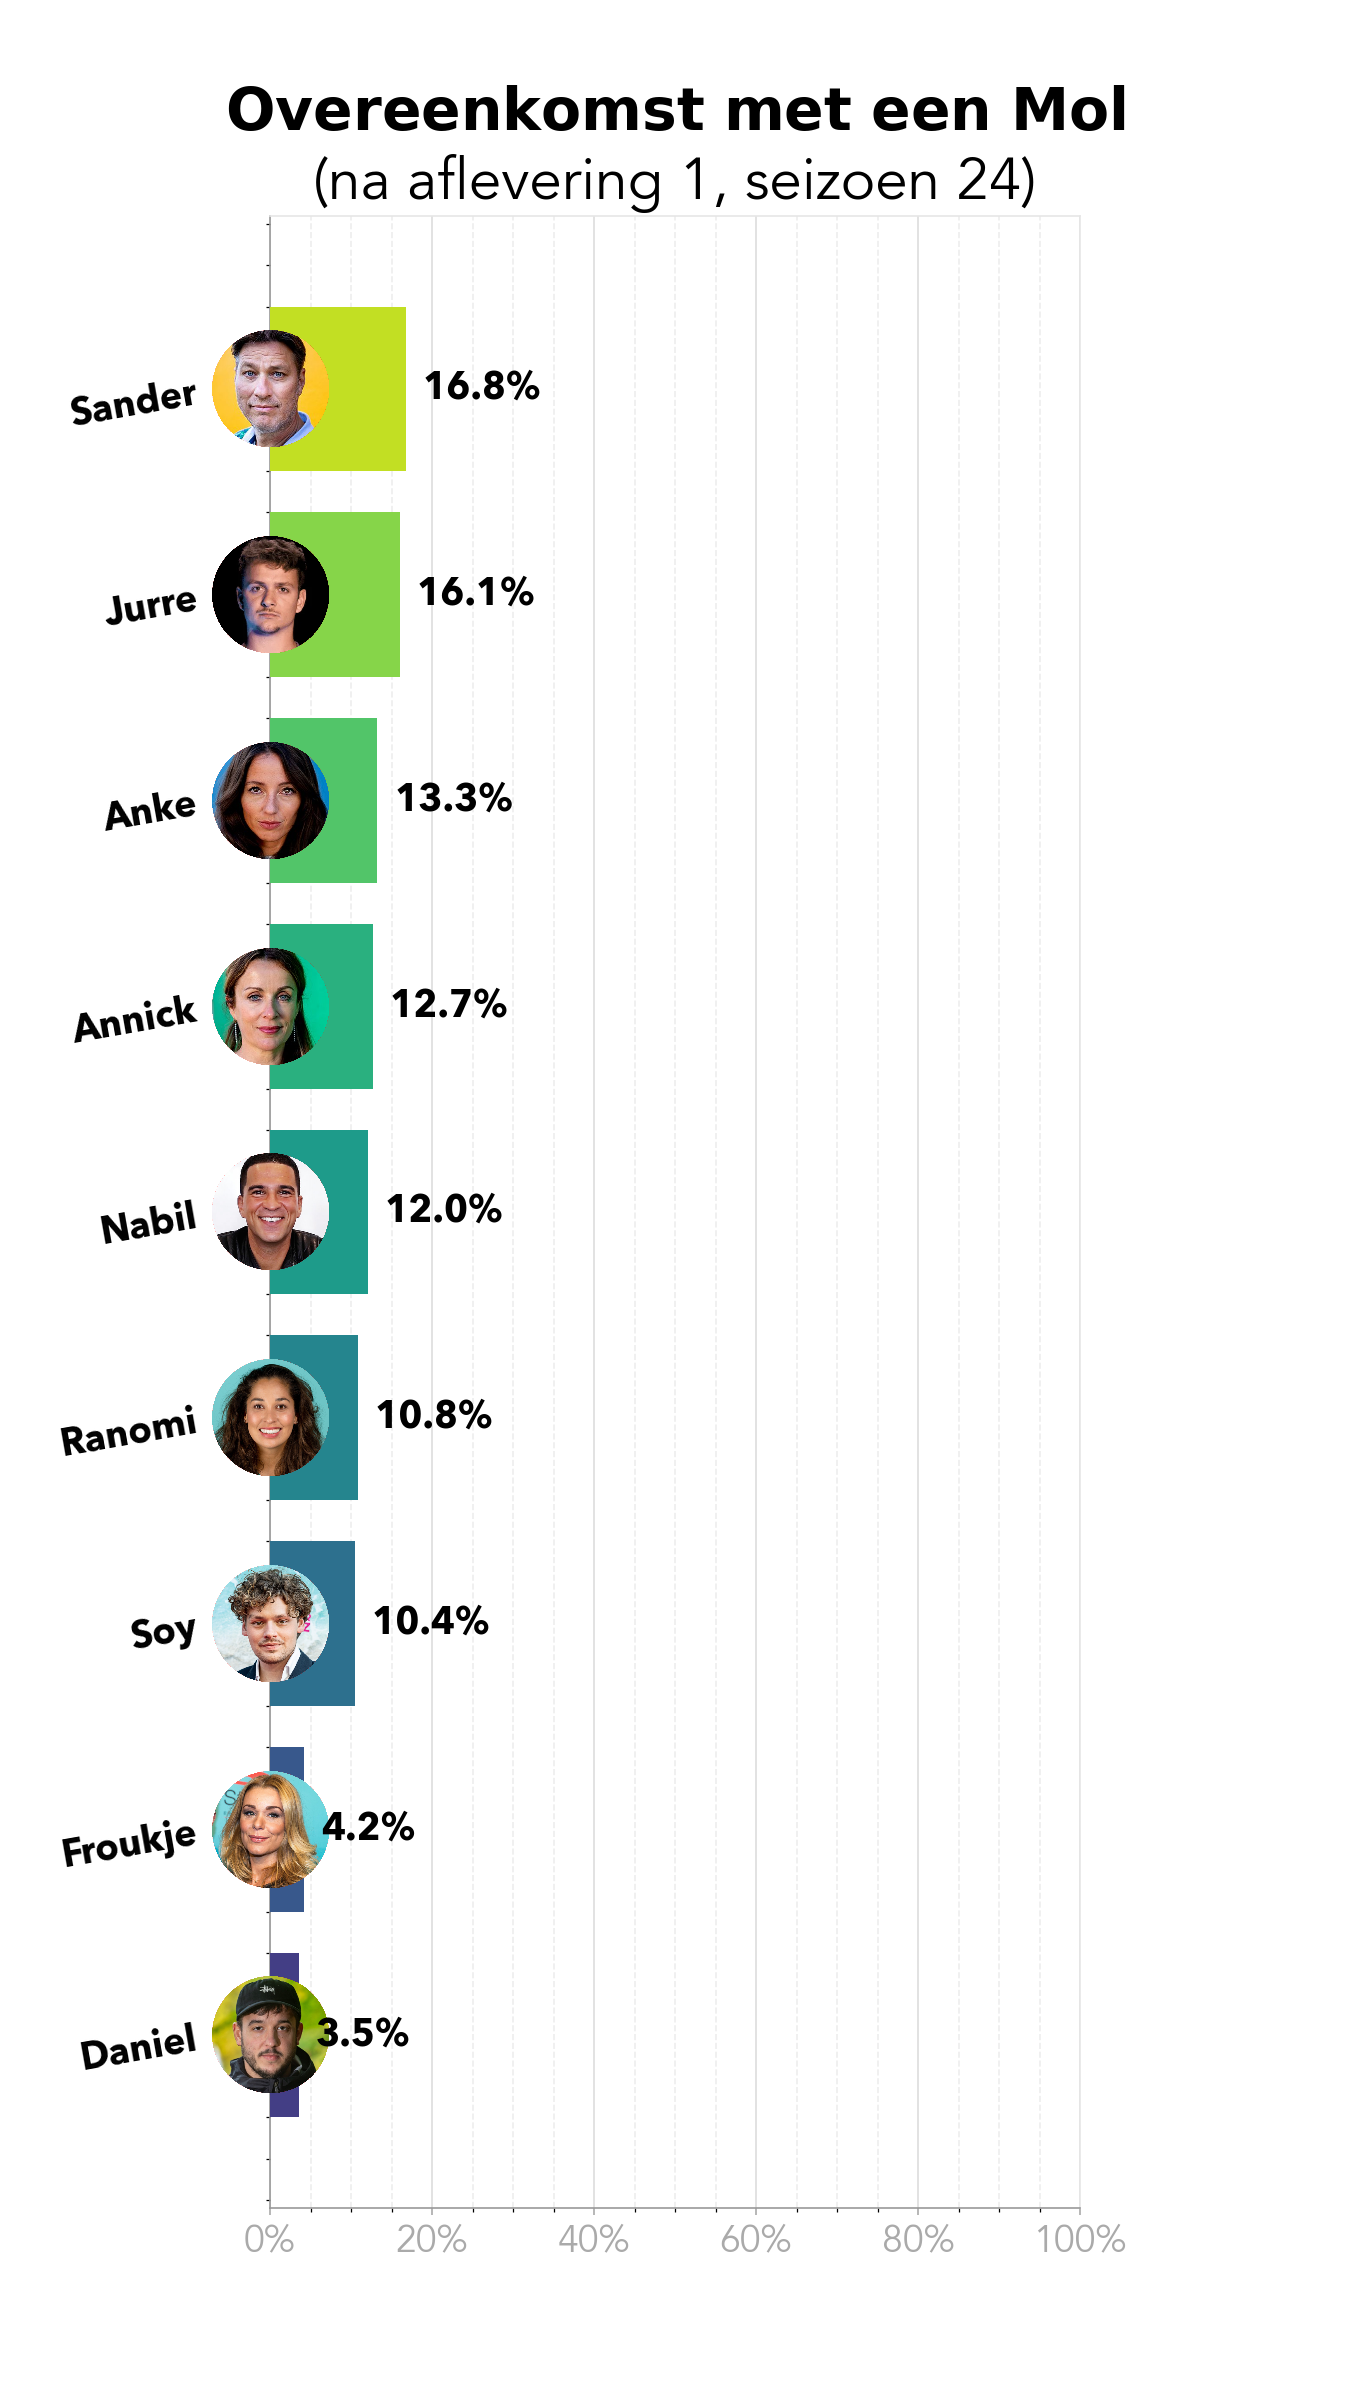
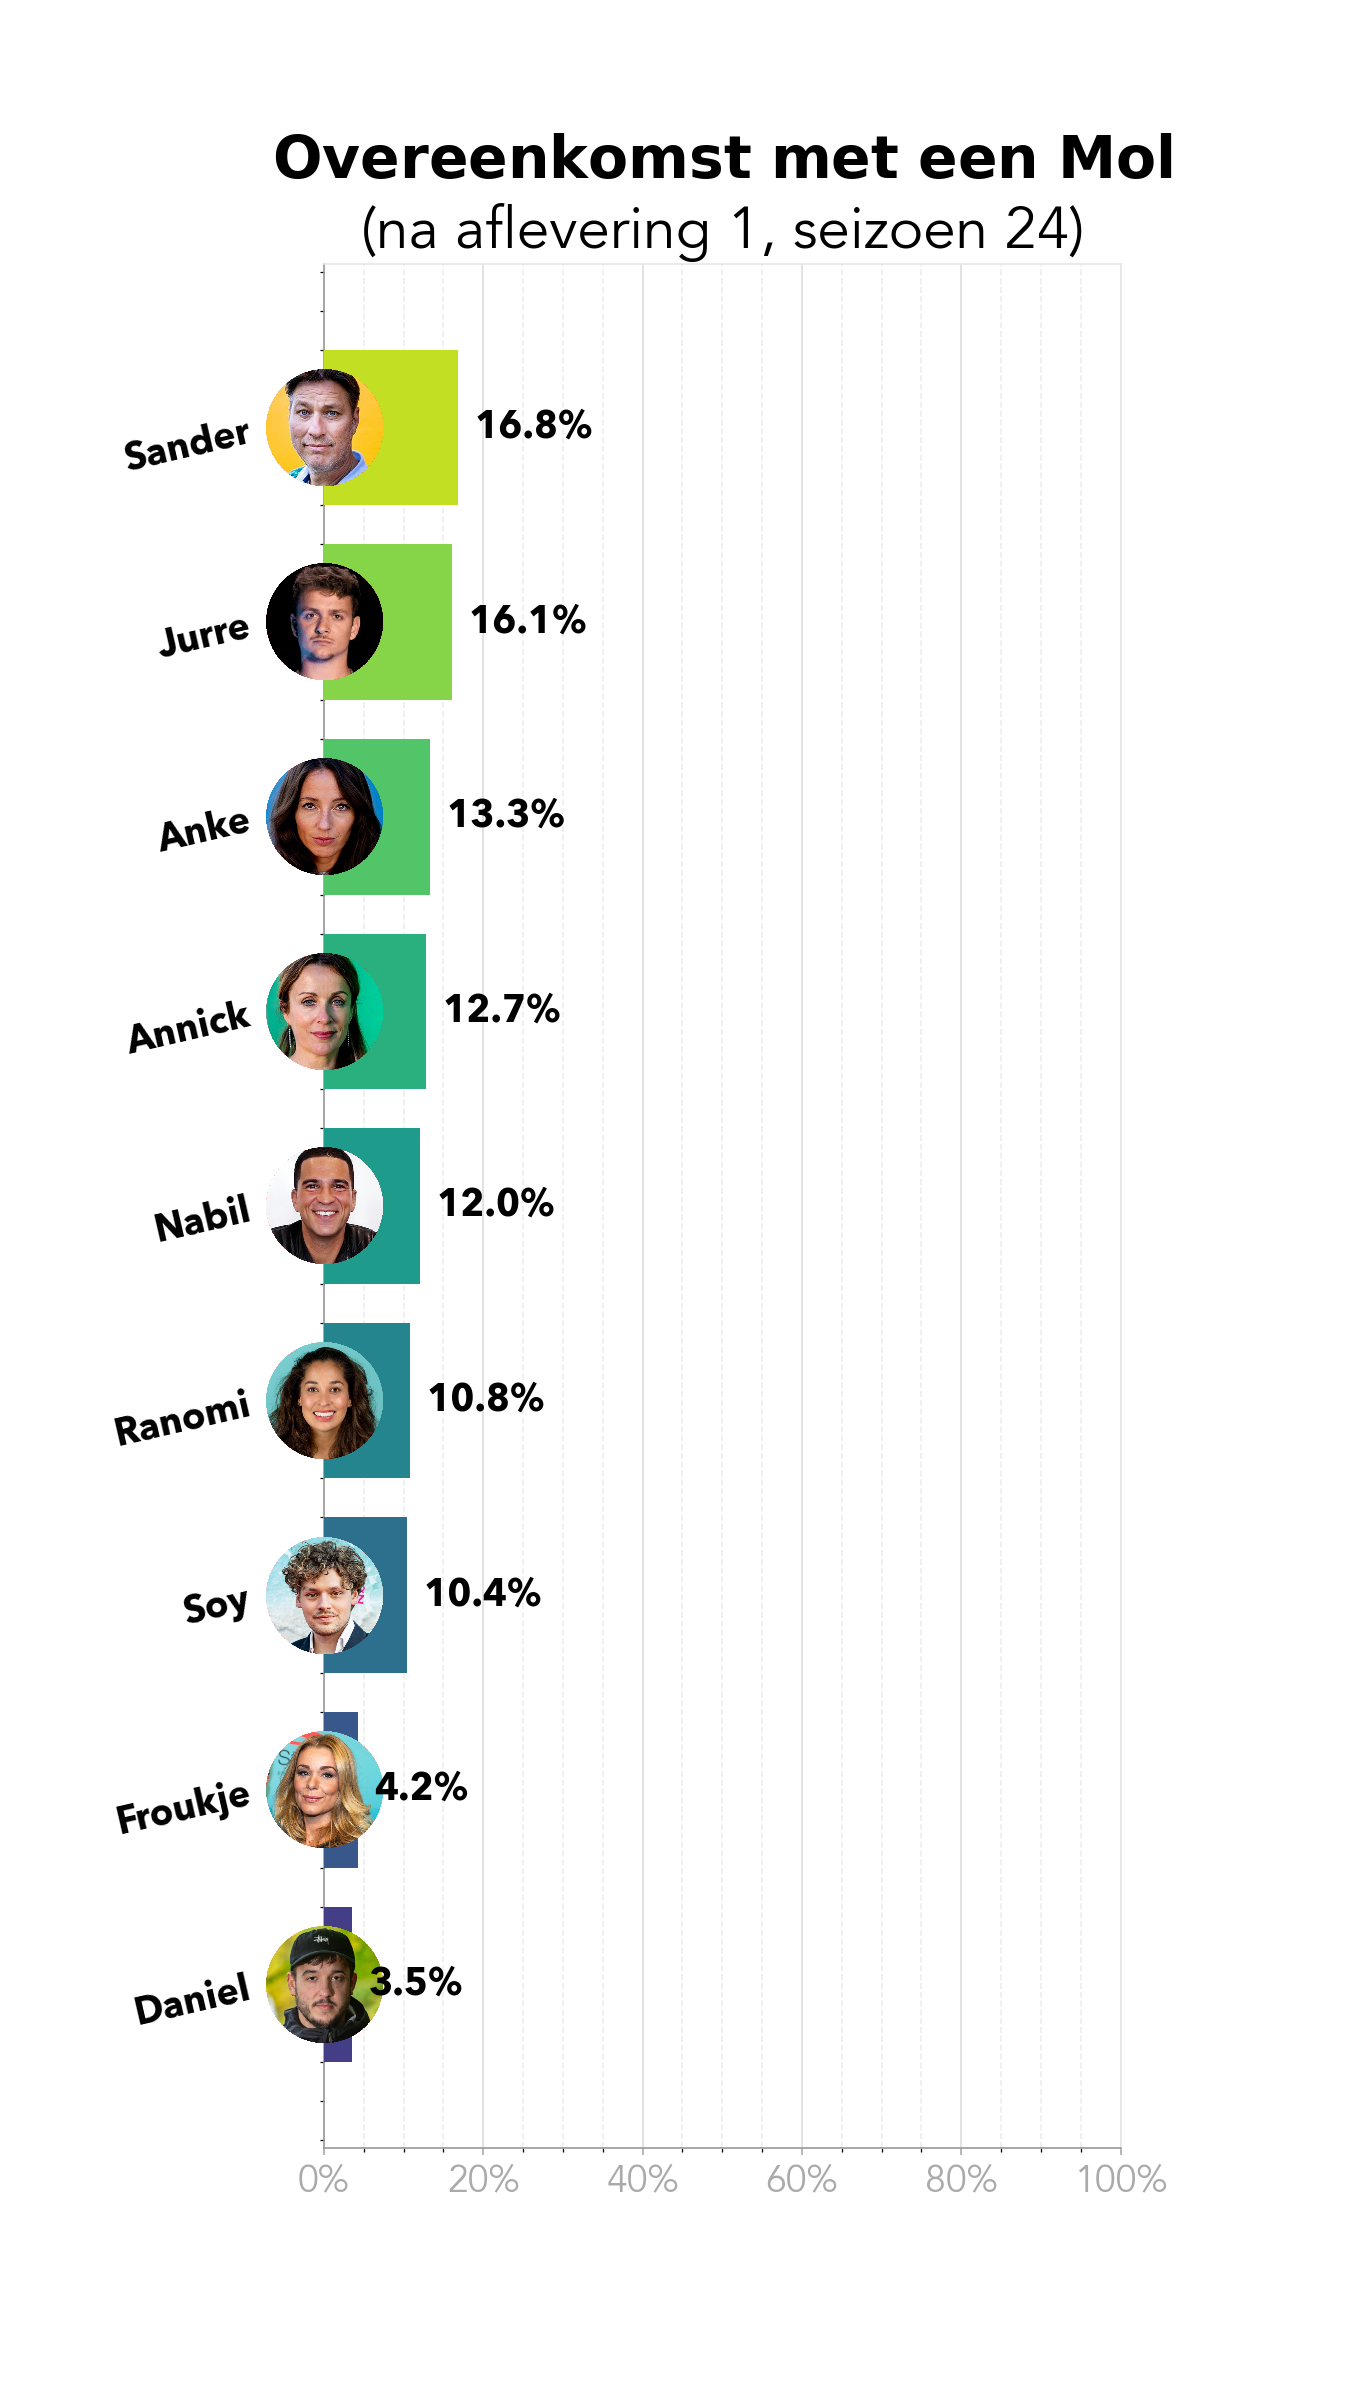
improve safe zones of instagarm printer

diff --git a/moldel/Printers/InstagramPrinter.py b/moldel/Printers/InstagramPrinter.py
@@ -49,7 +49,7 @@ class InstagramPrinter(Printer):
         likelihoods = saferound([(likelihood / likelihoods_sum * 100) for likelihood in likelihoods], self.__PRECISION)
 
         plt.figure(dpi=300, figsize=[9, 16])
-        plt.subplots_adjust(bottom=0.08, top=0.91, left=0.2, right=0.8)
+        plt.subplots_adjust(bottom=0.105, top=0.89, left=0.24, right=0.83)
         plt.gca().spines["bottom"].set_color("0.6")
         plt.gca().spines["left"].set_color("0.6")
         plt.gca().spines["right"].set_color("0.9")
@@ -59,7 +59,7 @@ class InstagramPrinter(Printer):
         plt.minorticks_on()
         plt.gca().tick_params(axis="y", which="minor", bottom=False)
         plt.gca().tick_params(axis="x", colors="#aaa")
-        plt.yticks(fontsize=18, rotation=10, fontname="Avenir Next")
+        plt.yticks(fontsize=18, rotation=13, fontname="Avenir Next")
         plt.xticks(fontsize=18, fontname="Avenir")
         plt.gca().xaxis.set_major_formatter(mtick.PercentFormatter(100))
         plt.xlim(0, 100)
